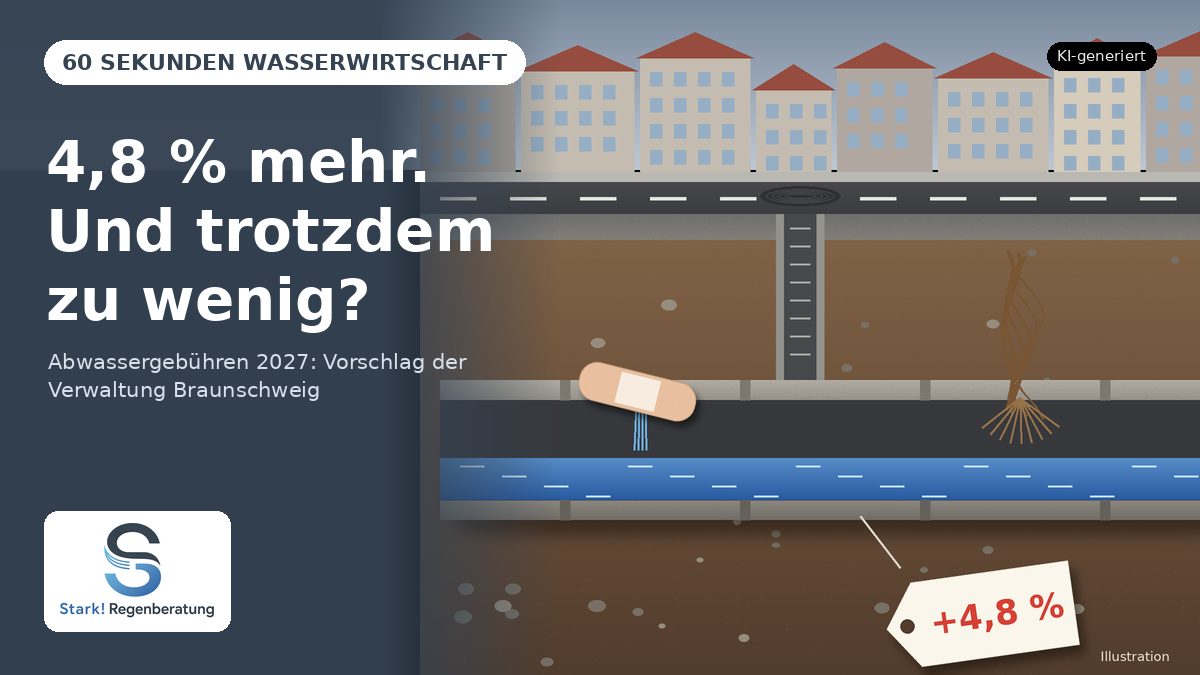
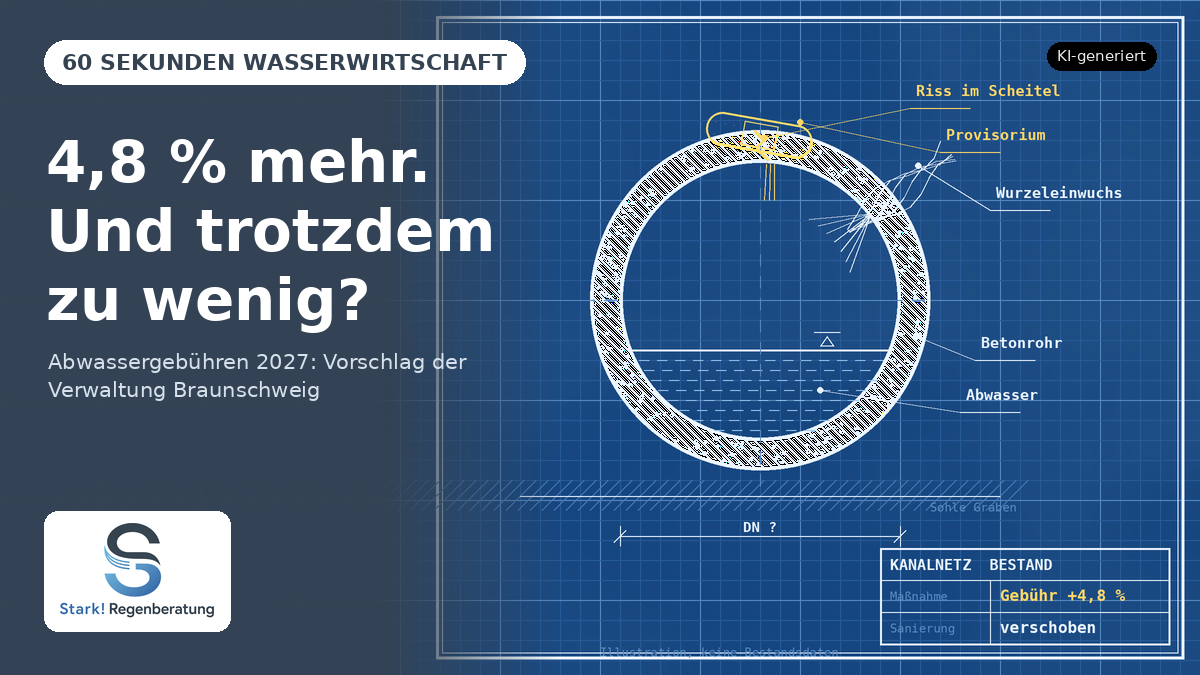
linkedin60: Bild 03.11.2026 im Blaupausen-Stil
Claude-Session: https://claude.ai/code/session_01FhoSr4WPc5o5Wm3LeXVEvM

diff --git a/linkedin60/motive/2026-11-03.py b/linkedin60/motive/2026-11-03.py
@@ -1,6 +1,7 @@
-"""Motiv 03.11.2026 (detaillierter Stil): Straßenschnitt, darunter ein altes, gerissenes Kanalrohr
-mit Wurzeleinwuchs. Auf dem Riss klebt ein Heftpflaster, am Rohr hängt ein Preisschild "+4,8 %".
+"""Motiv 03.11.2026, Stil Blaupause: technische Zeichnung eines alten Kanalrohrs im Querschnitt.
 
+Riss im Scheitel, Wurzeleinwuchs, darauf ein Heftpflaster als "Provisorium", Bemaßung und
+Schriftfeld wie auf einem Planblatt. Gezeichnet in doppelter Auflösung und verkleinert.
 Aufruf: python3 linkedin60/motive/2026-11-03.py
 """
 import math
@@ -11,154 +12,168 @@ from pathlib import Path
 sys.path.insert(0, str(Path(__file__).resolve().parent.parent))
 from PIL import Image, ImageDraw, ImageFilter
 
-from bild import BLAU, DUNKEL, FONT_BOLD, FONT_REGULAR, HELLBLAU, ROT, H, W, font, mit_rahmen
+from bild import H, W, font, mit_rahmen
 
 S = 2
 WW, HH = W * S, H * S
-rnd = random.Random(1103)
+rnd = random.Random(311)
+MONO = "/usr/share/fonts/truetype/dejavu/DejaVuSansMono.ttf"
+MONO_B = "/usr/share/fonts/truetype/dejavu/DejaVuSansMono-Bold.ttf"
+PAPIER = (22, 70, 128)
+LINIE = (232, 242, 252)
+FEIN = (90, 140, 196)
+AKZENT = (255, 214, 102)  # Signalgelb wie Rotstift auf Blaupausen
 
 
 def s(*v):
-    return tuple(int(x * S) for x in v)
+    return tuple(int(round(x * S)) for x in v)
 
 
-def mix(a, b, t):
-    return tuple(int(a[i] + (b[i] - a[i]) * t) for i in range(3))
+def mono(size, bold=False):
+    return font(MONO_B if bold else MONO, size * S)
 
 
-def verlauf(img, box, oben, unten):
-    x0, y0, x1, y1 = s(*box)
-    d = ImageDraw.Draw(img)
-    for y in range(y0, y1):
-        d.line((x0, y, x1, y), fill=mix(oben, unten, (y - y0) / max(1, y1 - y0)))
-
-
-img = Image.new("RGBA", (WW, HH), (0, 0, 0, 255))
-
-# Himmel und Straßenszene oben
-verlauf(img, (0, 0, W, 170), (120, 136, 156), (190, 200, 212))
+img = Image.new("RGBA", (WW, HH), PAPIER + (255,))
 d = ImageDraw.Draw(img)
-x = 420
-while x < W:  # Häuserfront im Hintergrund
-    w, h = rnd.randint(70, 120), rnd.randint(70, 120)
-    c = rnd.choice([(214, 204, 188), (196, 188, 176), (224, 216, 204), (176, 168, 160)])
-    d.rectangle(s(x, 170 - h, x + w, 172), fill=c)
-    d.polygon([s(x - 4, 170 - h), s(x + w / 2, 170 - h - 26), s(x + w + 4, 170 - h)], fill=(150, 76, 62))
-    for fy in range(int(170 - h + 14), 160, 26):
-        for fx in range(x + 10, x + w - 16, 24):
-            d.rectangle(s(fx, fy, fx + 12, fy + 14), fill=(150, 174, 196))
-    x += w + 6
-# Gehweg und Straße
-d.rectangle(s(420, 172, W, 182), fill=(186, 184, 178))
-verlauf(img, (420, 182, W, 214), (70, 72, 76), (58, 60, 64))
-d = ImageDraw.Draw(img)
-for xx in range(440, W, 70):  # Mittelmarkierung
-    d.rectangle(s(xx, 197, xx + 36, 200), fill=(230, 230, 220))
-# Schachtdeckel
-d.ellipse(s(760, 186, 840, 206), fill=(46, 48, 52))
-for k in range(4):
-    d.arc(s(766 + k * 6, 189 + k * 1.5, 834 - k * 6, 203 - k * 1.5), 0, 360, fill=(72, 74, 78), width=S)
 
-# Schnitt: Aufbau unter der Straße
-verlauf(img, (420, 214, W, 240), (110, 110, 108), (130, 128, 122))   # Tragschicht
-d = ImageDraw.Draw(img)
-for _ in range(500):
-    gx, gy = rnd.randint(420, W), rnd.randint(215, 239)
-    d.point(s(gx, gy), fill=rnd.choice([(150, 148, 140), (96, 96, 94)]))
-verlauf(img, (420, 240, W, H), (128, 98, 70), (82, 60, 44))  # Erdreich
-d = ImageDraw.Draw(img)
-for _ in range(1800):
-    gx, gy = rnd.randint(420, W), rnd.randint(240, H)
-    d.point(s(gx, gy), fill=rnd.choice([(104, 78, 56), (142, 110, 80), (92, 70, 52)]))
-for _ in range(40):  # Steine
-    gx, gy, r = rnd.randint(430, W), rnd.randint(250, H), rnd.uniform(3, 9)
-    d.ellipse(s(gx - r, gy - r * 0.7, gx + r, gy + r * 0.7), fill=rnd.choice([(150, 140, 126), (120, 112, 100)]))
-
-# Schacht vom Deckel nach unten
-d.rectangle(s(776, 214, 824, 380), fill=(148, 146, 140))
-d.rectangle(s(784, 214, 816, 380), fill=(70, 72, 76))
-for k in range(8):  # Steigeisen
-    d.line(s(790, 228 + k * 18, 810, 228 + k * 18), fill=(170, 170, 164), width=2 * S)
-
-# Altes Betonrohr (Längsschnitt)
-px0, py0, px1, py1 = 440, 380, W + 20, 520
+# Papierstruktur: leichte Flecken
 layer = Image.new("RGBA", img.size)
-ImageDraw.Draw(layer).rounded_rectangle(s(px0 + 8, py0 + 14, px1, py1 + 14), radius=30 * S, fill=(0, 0, 0, 110))
-img.alpha_composite(layer.filter(ImageFilter.GaussianBlur(8 * S)))
+ld = ImageDraw.Draw(layer)
+for _ in range(60):
+    x, y, r = rnd.randint(0, W), rnd.randint(0, H), rnd.randint(40, 140)
+    ld.ellipse(s(x - r, y - r, x + r, y + r), fill=(255, 255, 255, rnd.randint(4, 10)))
+img.alpha_composite(layer.filter(ImageFilter.GaussianBlur(30 * S)))
 d = ImageDraw.Draw(img)
-verlauf(img, (px0, py0, px1, py0 + 20), (176, 172, 162), (150, 146, 138))
-verlauf(img, (px0, py1 - 20, px1, py1), (140, 136, 128), (112, 108, 102))
+
+# Raster
+for x in range(0, W, 20):
+    d.line(s(x, 0, x, H), fill=FEIN + (255,) if x % 100 == 0 else (40, 92, 152), width=S)
+for y in range(0, H, 20):
+    d.line(s(0, y, W, y), fill=FEIN + (255,) if y % 100 == 0 else (40, 92, 152), width=S)
+
+# Blattrahmen
+d.rectangle(s(436, 16, W - 16, H - 16), outline=LINIE, width=3 * S)
+d.rectangle(s(442, 22, W - 22, H - 22), outline=LINIE, width=S)
+
+# ---------- Rohrquerschnitt ----------
+cx, cy = 760, 300
+ra, ri = 170, 140  # Außen-, Innenradius
+# Erdreich-Schraffur um das Rohr
+for k in range(-40, 40):
+    x0 = cx - 230 + k * 12
+    d.line(s(x0, cy + 210, x0 + 30, cy + 180), fill=(70, 120, 180), width=S)
+d.line(s(cx - 240, cy + 196, cx + 240, cy + 196), fill=LINIE, width=S)
+d.text(s(cx + 170, cy + 200), "Sohle Graben", font=mono(12), fill=FEIN)
+
+# Rohrwand mit Schraffur (Beton)
+wand = Image.new("L", img.size, 0)
+wd = ImageDraw.Draw(wand)
+wd.ellipse(s(cx - ra, cy - ra, cx + ra, cy + ra), fill=255)
+wd.ellipse(s(cx - ri, cy - ri, cx + ri, cy + ri), fill=0)
+schraffur = Image.new("RGBA", img.size)
+sd = ImageDraw.Draw(schraffur)
+for k in range(-60, 60):
+    x0 = cx - 400 + k * 9
+    sd.line(s(x0, cy - 200, x0 + 400, cy + 200), fill=LINIE + (150,), width=S)
+for _ in range(220):  # Zuschlagkörner
+    a, r = rnd.uniform(0, 2 * math.pi), rnd.uniform(ri + 4, ra - 4)
+    px, py = cx + math.cos(a) * r, cy + math.sin(a) * r
+    sd.ellipse(s(px - 1.4, py - 1.4, px + 1.4, py + 1.4), outline=LINIE + (200,), width=S)
+leer = Image.new("RGBA", img.size)
+img.paste(Image.composite(schraffur, leer, wand), (0, 0), wand)
 d = ImageDraw.Draw(img)
-d.rectangle(s(px0, py0 + 20, px1, py1 - 20), fill=(54, 56, 60))
-# Wasserstand im Rohr
-verlauf(img, (px0, py0 + 78, px1, py1 - 20), (86, 140, 200), (40, 90, 160))
-d = ImageDraw.Draw(img)
-for i in range(18):
-    y = py0 + 86 + (i % 4) * 10
-    x = px0 + 20 + i * 42
-    d.line(s(x, y, x + 24, y), fill=(196, 224, 248), width=2 * S)
-# Rohrstöße und Betonporen
-for jx in range(px0 + 120, px1, 180):
-    d.rectangle(s(jx, py0, jx + 10, py0 + 20), fill=(124, 120, 112))
-    d.rectangle(s(jx, py1 - 20, jx + 10, py1), fill=(100, 96, 90))
-for _ in range(260):
-    gx = rnd.randint(px0, px1)
-    gy = rnd.choice([rnd.randint(py0 + 2, py0 + 18), rnd.randint(py1 - 18, py1 - 2)])
-    d.point(s(gx, gy), fill=(110, 106, 98))
+d.ellipse(s(cx - ra, cy - ra, cx + ra, cy + ra), outline=LINIE, width=3 * S)
+d.ellipse(s(cx - ri, cy - ri, cx + ri, cy + ri), outline=LINIE, width=3 * S)
 
-# Riss im Rohrscheitel mit eindringendem Grundwasser
-riss = [(620, py0), (632, py0 + 8), (626, py0 + 14), (640, py0 + 20)]
-d.line([s(*p) for p in riss], fill=(30, 30, 32), width=3 * S)
-for k in range(4):
-    d.line(s(636 + k * 3, py0 + 22, 634 + k * 4, py0 + 70), fill=HELLBLAU, width=2 * S)
+# Wasserspiegel und Wasser (waagrechte Strichelung)
+ws = cy + 50
+half = math.sqrt(ri ** 2 - (ws - cy) ** 2)
+d.line(s(cx - half, ws, cx + half, ws), fill=LINIE, width=2 * S)
+for y in range(int(ws) + 10, cy + ri, 10):
+    hw = math.sqrt(max(0, ri ** 2 - (y - cy) ** 2)) - 6
+    for x in range(int(cx - hw), int(cx + hw), 18):
+        d.line(s(x, y, x + 10, y), fill=(150, 196, 236), width=S)
+# Wasserspiegel-Symbol
+d.polygon([s(cx + 60, ws - 4), s(cx + 74, ws - 4), s(cx + 67, ws - 14)], outline=LINIE, width=S)
+d.line(s(cx + 54, ws - 18, cx + 80, ws - 18), fill=LINIE, width=S)
 
-# Wurzel wächst durch einen Rohrstoß
-wx = 1020
-for k in range(6):
-    pts = []
-    for t in range(12):
-        yy = 250 + t * 14 + k * 3
-        xx = wx + math.sin(t * 0.8 + k) * (6 + k * 2) + (k - 3) * 4
-        pts.append(s(xx, yy))
-    d.line(pts, fill=(120, 86, 52), width=(4 - k // 2) * S)
-for k in range(9):  # feine Wurzeln im Rohr
-    ang = -0.9 + k * 0.22
-    d.line(s(wx, py0 + 18, wx + math.cos(ang + 1.57) * 50, py0 + 18 + math.sin(ang + 1.57) * 46), fill=(150, 114, 72), width=2 * S)
+# Mittelachsen
+for k in range(-12, 13):
+    if k % 2 == 0:
+        d.line(s(cx - 200 + k * 0, cy, cx - 200, cy), fill=LINIE)
+for x in range(cx - 200, cx + 200, 22):
+    d.line(s(x, cy, x + 12, cy), fill=FEIN, width=S)
+for y in range(cy - 200, cy + 190, 22):
+    d.line(s(cx, y, cx, y + 12), fill=FEIN, width=S)
 
-# Heftpflaster auf dem Riss (der Bildwitz)
-pfl = Image.new("RGBA", s(120, 40))
+# Riss im Scheitel (gelb hervorgehoben)
+riss = [(cx - 6, cy - ra), (cx + 4, cy - ra + 10), (cx - 4, cy - ra + 18), (cx + 8, cy - ra + 30)]
+d.line([s(*p) for p in riss], fill=AKZENT, width=3 * S)
+for k in range(3):  # eindringendes Grundwasser
+    d.line(s(cx + 6 + k * 4, cy - ri + 4, cx + 4 + k * 5, cy - ri + 40), fill=AKZENT, width=S)
+
+# Heftpflaster als Provisorium über dem Riss
+pfl = Image.new("RGBA", s(110, 36))
 pd = ImageDraw.Draw(pfl)
-pd.rounded_rectangle(s(0, 0, 119, 39), radius=18 * S, fill=(232, 192, 160), outline=(196, 156, 124), width=S)
-pd.rectangle(s(40, 4, 80, 35), fill=(248, 236, 224))
-for gx in range(8, 112, 8):
-    for gy in (10, 20, 30):
-        if not 40 <= gx <= 80:
-            pd.point(s(gx, gy), fill=(200, 160, 128))
-pfl = pfl.rotate(-14, expand=True, resample=Image.BICUBIC)
-layer = Image.new("RGBA", img.size)
-layer.alpha_composite(pfl, s(574, py0 - 22))
-sh = Image.new("RGBA", img.size)
-sh.paste((0, 0, 0, 120), s(578, py0 - 16), pfl.split()[3])
-img.alpha_composite(sh.filter(ImageFilter.GaussianBlur(3 * S)))
-img.alpha_composite(layer)
+pd.rounded_rectangle(s(1, 1, 108, 34), radius=16 * S, outline=AKZENT, width=2 * S)
+pd.rectangle(s(38, 6, 72, 30), outline=AKZENT, width=S)
+for gx in range(10, 104, 9):
+    if not 36 <= gx <= 74:
+        for gy in (12, 24):
+            pd.point(s(gx, gy), fill=AKZENT)
+pfl = pfl.rotate(-10, expand=True, resample=Image.BICUBIC)
+img.alpha_composite(pfl, s(cx - 58, cy - ra - 22))
 d = ImageDraw.Draw(img)
 
-# Preisschild "+4,8 %" an einer Schnur am Rohr
-tx, ty = 880, 560
-d.line(s(860, py1 - 4, tx + 20, ty + 8), fill=(220, 214, 200), width=2 * S)
-schild = Image.new("RGBA", s(190, 86))
-sd = ImageDraw.Draw(schild)
-sd.polygon([s(0, 43), s(30, 0), s(189, 0), s(189, 85), s(30, 85)], fill=(250, 246, 236), outline=(170, 160, 140))
-sd.ellipse(s(14, 36, 28, 50), fill=(82, 60, 44))
-sd.text(s(112, 43), "+4,8 %", font=font(FONT_BOLD, 34 * S), fill=ROT, anchor="mm")
-schild = schild.rotate(8, expand=True, resample=Image.BICUBIC)
-sh = Image.new("RGBA", img.size)
-sh.paste((0, 0, 0, 110), s(tx + 6, ty + 8), schild.split()[3])
-img.alpha_composite(sh.filter(ImageFilter.GaussianBlur(5 * S)))
-img.alpha_composite(schild, s(tx, ty))
+# Wurzeleinwuchs rechts oben durch die Wand
+a0 = math.radians(-38)
+wx, wy = cx + math.cos(a0) * ra, cy + math.sin(a0) * ra
+for k in range(5):
+    pts = []
+    for t in range(9):
+        r = ra + 70 - t * 16
+        a = a0 + math.sin(t * 0.9 + k) * 0.05 + (k - 2) * 0.03
+        pts.append(s(cx + math.cos(a) * r, cy + math.sin(a) * r))
+    d.line(pts, fill=LINIE, width=S)
+for k in range(7):
+    a = a0 + (k - 3) * 0.12
+    d.line(s(cx + math.cos(a0) * ri, cy + math.sin(a0) * ri, cx + math.cos(a) * (ri - 46), cy + math.sin(a) * (ri - 46)), fill=LINIE, width=S)
 
-d = ImageDraw.Draw(img)
-d.text(s(W - 30, H - 14), "Illustration", font=font(FONT_REGULAR, 13 * S), fill=(236, 226, 210), anchor="rs")
+# ---------- Beschriftungen mit Hinweislinien ----------
+def hinweis(px, py, tx, ty, text, farbe=LINIE):
+    d.line(s(px, py, tx, ty), fill=farbe, width=S)
+    d.ellipse(s(px - 3, py - 3, px + 3, py + 3), fill=farbe)
+    anchor = "lm" if tx > px else "rm"
+    d.line(s(tx, ty, tx + (60 if tx > px else -60), ty), fill=farbe, width=S)
+    d.text(s(tx + (6 if tx > px else -6), ty - 12), text, font=mono(15, True), fill=farbe, anchor="lb" if tx > px else "rb")
+
+
+hinweis(cx + 4, cy - ra + 8, cx + 150, cy - ra - 22, "Riss im Scheitel", AKZENT)
+hinweis(cx + 40, cy - ra - 8, cx + 180, cy - ra + 22, "Provisorium", AKZENT)
+hinweis(wx + 24, wy - 30, cx + 230, cy - 90, "Wurzeleinwuchs")
+hinweis(cx + ra - 14, cy + 36, cx + 215, cy + 60, "Betonrohr")
+hinweis(cx + 60, ws + 40, cx + 200, cy + 112, "Abwasser")
+
+# Bemaßung Innendurchmesser
+d.line(s(cx - ri, cy + 236, cx + ri, cy + 236), fill=LINIE, width=S)
+for x in (cx - ri, cx + ri):
+    d.line(s(x, cy + 226, x, cy + 246), fill=LINIE, width=S)
+    d.line(s(x - 6, cy + 242, x + 6, cy + 230), fill=LINIE, width=S)
+d.text(s(cx, cy + 232), "DN ?", font=mono(14, True), fill=LINIE, anchor="mb")
+
+# ---------- Schriftfeld unten rechts ----------
+bx0, by0, bx1, by1 = 880, 548, W - 30, H - 30
+d.rectangle(s(bx0, by0, bx1, by1), outline=LINIE, width=2 * S)
+d.line(s(bx0, by0 + 32, bx1, by0 + 32), fill=LINIE, width=S)
+d.line(s(bx0, by0 + 64, bx1, by0 + 64), fill=LINIE, width=S)
+d.line(s(bx0 + 110, by0 + 32, bx0 + 110, by1), fill=LINIE, width=S)
+d.text(s(bx0 + 10, by0 + 8), "KANALNETZ  BESTAND", font=mono(15, True), fill=LINIE)
+d.text(s(bx0 + 10, by0 + 41), "Maßnahme", font=mono(12), fill=FEIN)
+d.text(s(bx0 + 120, by0 + 38), "Gebühr +4,8 %", font=mono(16, True), fill=AKZENT)
+d.text(s(bx0 + 10, by0 + 73), "Sanierung", font=mono(12), fill=FEIN)
+d.text(s(bx0 + 120, by0 + 70), "verschoben", font=mono(16, True), fill=LINIE)
+
+d.text(s(600, H - 30), "Illustration, keine Bestandsdaten", font=mono(12), fill=FEIN)
 
 img = img.resize((W, H), Image.LANCZOS)
 mit_rahmen(img, "2026-11-03", "4,8 % mehr. Und trotzdem zu wenig?",
